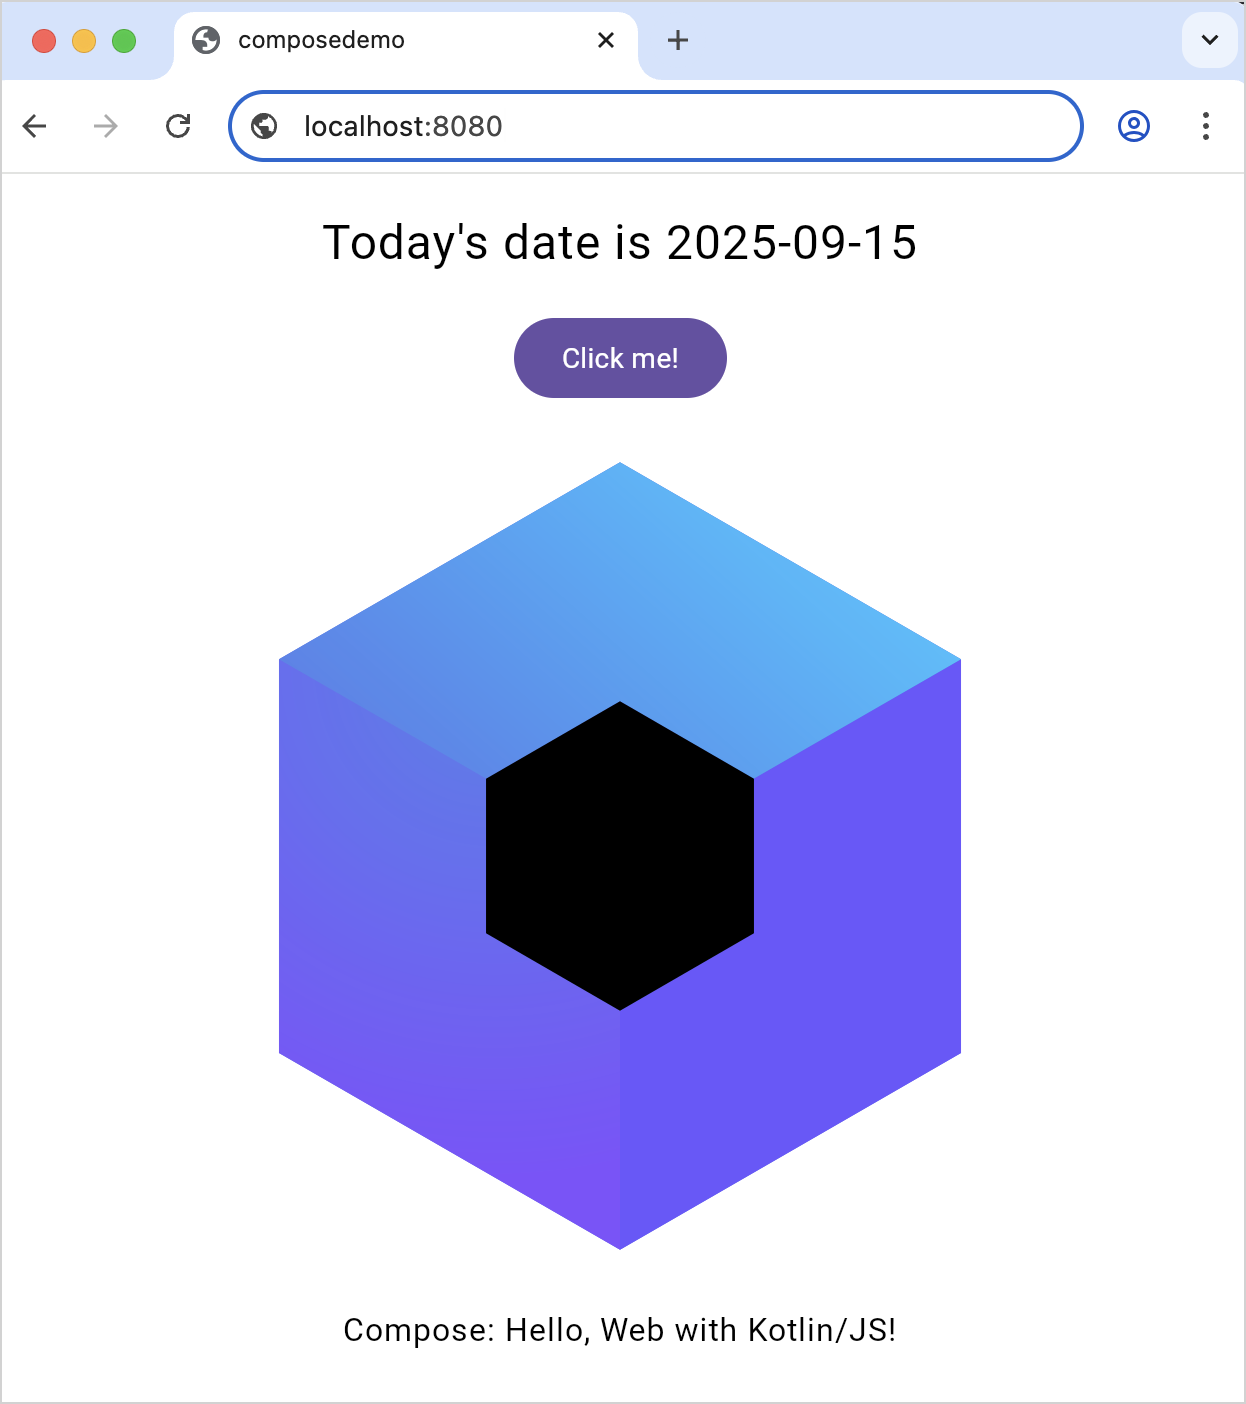
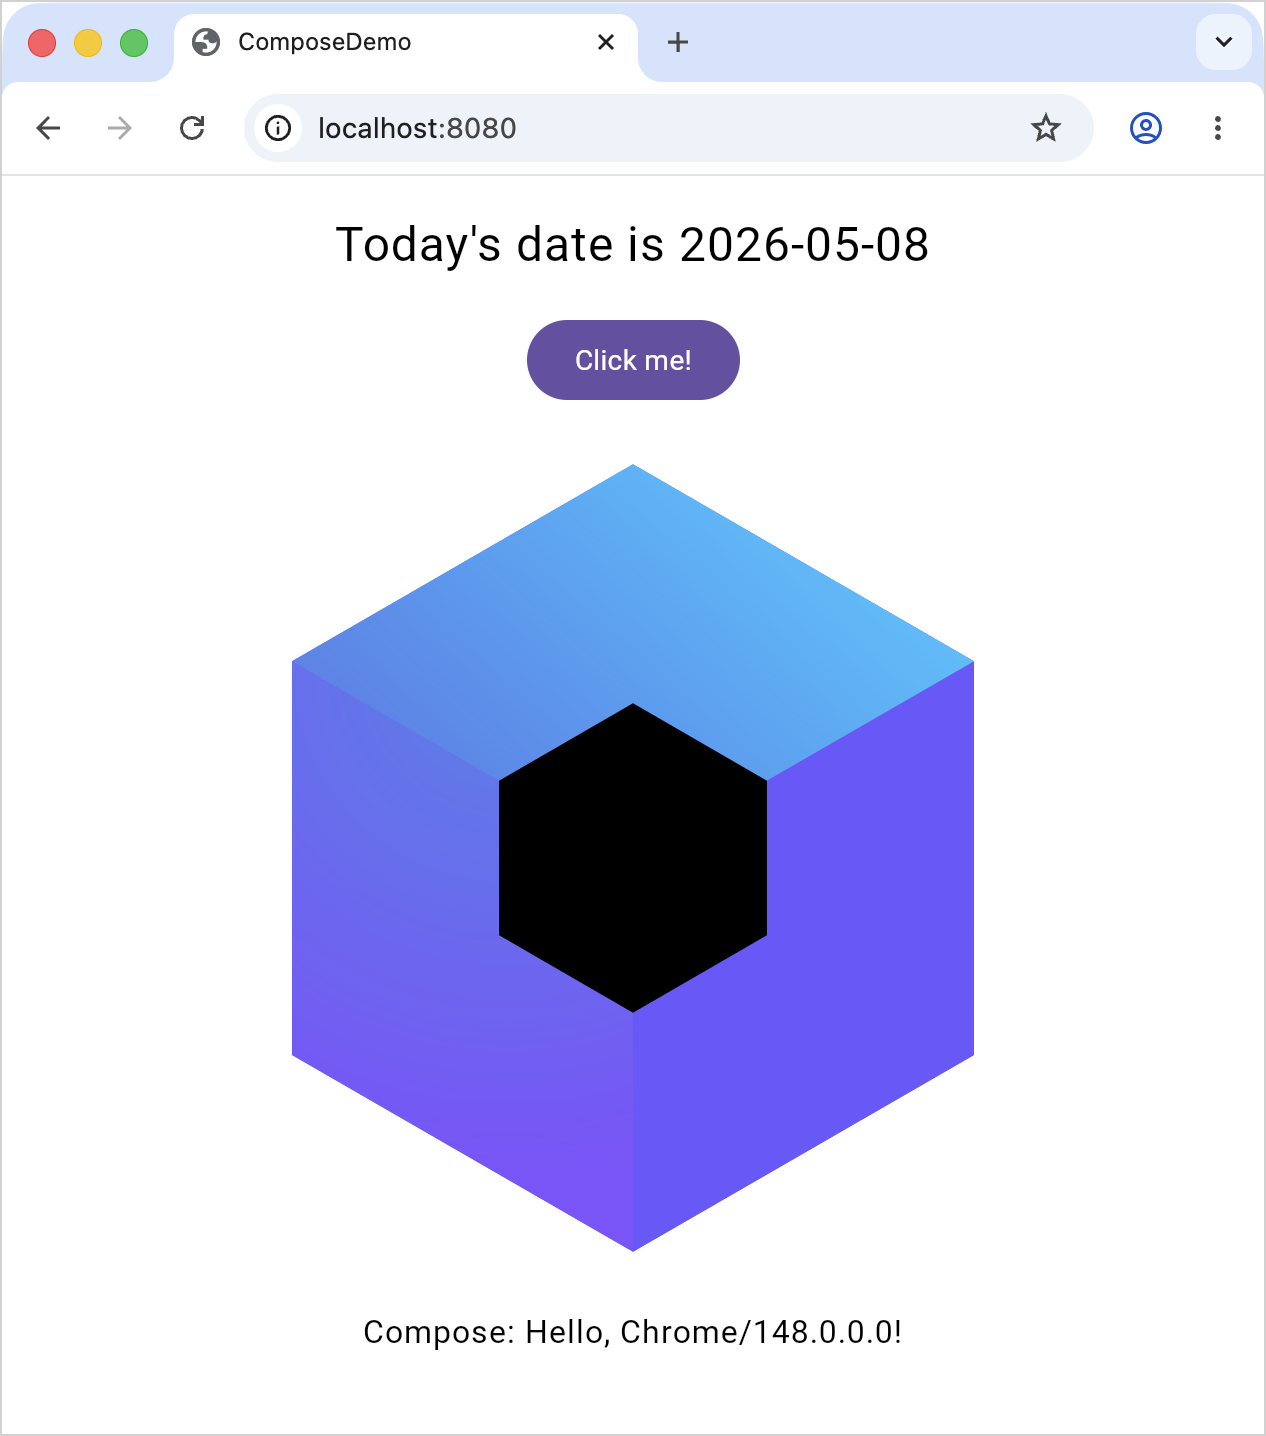
update: adding kotlinx-datetime

diff --git a/topics/compose-onboard/compose-multiplatform-explore-composables.md b/topics/compose-onboard/compose-multiplatform-explore-composables.md
@@ -24,53 +24,57 @@ In the `shared/src/commonMain/kotlin/App.kt` file, take a look at the `App()` fu
 
 <include from="compose-multiplatform-create-first-app.md" element-id="common-app-composable" />
 
-The `App()` function is a regular Kotlin function annotated with `@Composable`. These kinds of functions are referred to
-as _composable
-functions_ or just _composables_. They are the building blocks of a UI based on Compose Multiplatform.
+The `App()` function is a regular Kotlin function annotated with `@Composable`.
+Such functions are referred to as _composable functions_ or simply _composables_.
+They are the building blocks of a UI based on Jetpack Compose or Compose Multiplatform.
 
-A composable function has the following general structure:
+This `App()` function is used as the base of the UI architecture for the app and has the following structure:
 
-* The `MaterialTheme` sets the look of the application. The default settings can be customized. For example, you can
+* The `MaterialTheme()` sets the look of the application. The default settings can be customized. For example, you can
   choose colors, shapes, and typography.
-* The `Column` composable controls the layout of the application. Here, it displays a `Button` above
-  the `AnimatedVisibility` composable.
-* The `Button` contains the `Text` composable, which renders some text.
-* The `AnimatedVisibility` shows and hides the `Image` using an animation.
-* The `painterResource` loads a vector icon stored as an XML file.
+* The `Column()` composable controls the layout of the application. Here, it displays a `Button` above
+  the `AnimatedVisibility()` composable.
+* The `Button()` contains the `Text` composable, which renders some text on top of the button.
+* The `AnimatedVisibility()` call is set up to show and hide the `Image` using an animation when the button is pressed.
+* The `painterResource()` loads a vector image stored as an XML file.
 
-The `horizontalAlignment` parameter of the `Column` centers its content. But for this to have any effect, the column
-should take up the full width of its container. This is achieved using the `modifier` parameter.
+The `horizontalAlignment` parameter of the `Column()` function centers the column's content.
+For this to come into effect, the column should take up the full width of its container.
+This is achieved using the `modifier` parameter.
 
 Modifiers are a key component of Jetpack Compose and Compose Multiplatform.
-This is the primary mechanism you use to adjust the appearance or behavior of composables in the UI.
+They provide the primary mechanism to adjust the appearance or behavior of composables in the UI.
 Modifiers are created using methods of the `Modifier` type. When you chain these
 methods, each call can change the `Modifier` returned from the previous call, making the order significant.
 See the [Compose Multiplatform introduction to modifiers](https://kotlinlang.org/docs/multiplatform/compose-layout-modifiers.html#built-in-modifiers)
 and the extensive [Jetpack Compose modifier documentation](https://developer.android.com/jetpack/compose/modifiers) for more details.
 
-### Managing the state
+## Managing the state
 
-The final aspect of the sample composable is how the state is managed. The `showContent` property in the `App`
-composable is built using the `mutableStateOf()` function, which means it's a state object that can be observed:
+There is a persistent quality to the loaded image: it should consistently be either visible or hidden across recompositions
+unless the button is clicked.
+The `showContent` property in the `App()` composable is built using the `mutableStateOf()` function,
+which means it's a state object that can be observed:
 
 ```kotlin
 var showContent by remember { mutableStateOf(false) }
 ```
 
-The state object is wrapped in a call to the `remember()` function, meaning that it's built once and then
-retained by the framework. By executing this, you create a property whose value is a state object containing a boolean.
+The state object is wrapped in a `remember()` call, meaning that it's built once and then
+retained by the framework. This way, the `showContent` property has a value that is a state object containing a boolean.
 The framework caches this state object, allowing composables to observe it.
 
 When the value of the state changes, any composables that observe it are re-invoked. This allows any of the widgets they
 produce to be redrawn. This is called a _recomposition_.
 
-In your application, the only place where the state is changed is in the click event of the button. The `onClick` event
-handler flips the value of the `showContent` property. As a result, the image gets shown or hidden along with a `Greeting().greet()` call
-because the parent `AnimatedVisibility` composable observes `showContent`.
+The only place where the state is changed is in the `onClick` parameter of the `Button()` call.
+The event handler flips the value of the `showContent` property.
+As a result, the image gets shown or hidden along with a `Greeting().greet()` call
+because the parent `AnimatedVisibility()` composable observes `showContent`.
 
 ## Launching UI on different platforms
 
-The `App()` function execution is different for each platform. On Android, it's managed by an activity; on iOS, by a view 
+The `App()` function is executed differently on each platform. On Android, it's managed by an activity; on iOS, by a view 
 controller; on the desktop, by a window; and on the web, by a container. Let's examine each of them.
 
 ### On Android
@@ -91,7 +95,7 @@ class MainActivity : ComponentActivity() {
 ```
 
 This is an [Android activity](https://developer.android.com/guide/components/activities/intro-activities)
-called `MainActivity` that invokes the `App` composable.
+called `MainActivity` that invokes the `App()` composable declared in common code.
 
 ### On iOS
 
@@ -102,7 +106,7 @@ fun MainViewController() = ComposeUIViewController { App() }
 ```
 
 This is a [view controller](https://developer.apple.com/documentation/uikit/view_controllers) that performs the same
-role as an activity on Android. Notice that both the iOS and Android types simply invoke the `App` composable from common code.
+role as an activity on Android. Notice that both the iOS and Android types simply invoke the `App()` composable from common code.
 
 ### On desktop
 
@@ -120,12 +124,14 @@ fun main() = application {
 ```
 
 * Here, the `application()` function launches a new desktop application.
-* This function takes a lambda, which initializes the UI. Typically, you create a `Window` and specify properties and
-  instructions that dictate how the program should react when the window is closed (`onCloseRequest`).
-  In this case, the whole application shuts down.
-* Inside this window, you can place your content. As with Android and iOS, the only content is the UI provided by the `App()` function.
+  This function takes a lambda, which initializes the UI.
+* Typically, within `application()` you create a `Window` and specify its properties
+  as well as instructions for the program that should be executed when the window is closed (`onCloseRequest`).
+  In the default project, the whole application shuts down (`::exitApplication`).
+* Inside the window, you can place your content.
+  As with Android and iOS, the only content is the UI layout provided by the `App()` composable.
 
-In this example, the `App()` function doesn't declare any parameters. In a larger application, you typically pass parameters to
+In this example, the `App()` function doesn't take any parameters. In a larger application, you typically pass parameters to
 platform-specific dependencies. These dependencies could be written manually or passed using a dependency injection library.
 
 ### On web

diff --git a/topics/compose-onboard/compose-multiplatform-modify-project.md b/topics/compose-onboard/compose-multiplatform-modify-project.md
@@ -31,9 +31,18 @@ you can rely on the [kotlinx-datetime](https://github.com/Kotlin/kotlinx-datetim
 
 To use the `kotlinx-datetime` library:
 
-1. Open the `shared/build.gradle.kts` file and add the main `kotlinx-datetime` dependency to the section that configures
-   the common code source set.
-   For simplicity, you can include the version number directly instead of adding it to the version catalog.
+1. Open the `gradle/libs.versions.toml` file and add the `kotlinx-datetime` dependency to the version catalog:
+
+    ```text
+    [versions]
+    kotlinx-datetime = "0.8.0"
+    
+    [libraries]
+    kotlinx-datetime = { module = "org.jetbrains.kotlinx:kotlinx-datetime", version.ref = "kotlinx-datetime" }
+    ```
+
+2. Open the `shared/build.gradle.kts` file and add a reference to that library entry
+   to the section that configures the common code source set:
       
     ```kotlin
     kotlin {
@@ -42,13 +51,13 @@ To use the `kotlinx-datetime` library:
             // ...
             commonMain.dependencies {
                 // ...
-                implementation("org.jetbrains.kotlinx:kotlinx-datetime:%dateTimeVersion%")
+                implementation(libs.kotlinx.datetime)
             }
         }
     }
     
     ```
-2. For the web target, timezone support requires the `js-joda` library.
+3. For the web target, timezone support requires the `js-joda` library.
    Add a reference to the `js-joda` npm package to the `webApp/build.gradle.kts file`:
 
     ```kotlin
@@ -58,25 +67,25 @@ To use the `kotlinx-datetime` library:
             // ...
             commonMain.dependencies {
                 // ...
-                implementation(npm("@js-joda/timezone", "2.22.0"))
+                implementation(npm("@js-joda/timezone", "2.25.1"))
             }
         }
     }
     
     ```
 
-    Adding the dependency to the `commonMain` source set makes the library available both to the `wasmJs` and `js` targets.
+    Adding the dependency to the `webMain` source set makes the library available both to the `wasmJs` and `js` targets.
 
-3. Once the dependency is added, accept the IDE suggestion to sync the Gradle configuration
+4. Once the dependency is added, accept the IDE suggestion to sync the Gradle configuration
    or press double **Shift** and execute the **Sync Project with Gradle Files** command.
 
-4. In the **Terminal** tool window, run the following command to ensure that the `yarn.lock` file is updated with the latest dependency versions:
+5. In the **Terminal** tool window, run the following command to ensure that the `yarn.lock` file is updated with the latest dependency versions:
 
     ```shell
     ./gradlew kotlinUpgradeYarnLock kotlinWasmUpgradeYarnLock
     ```
  
-5. In the `webApp/src/webMain/kotlin/.../main.kt` file, use the `@JsModule` annotation to import the `js-joda` npm package: 
+6. In the `webApp/src/webMain/kotlin/.../main.kt` file, use the `@JsModule` annotation to import the `js-joda` npm package: 
 
     ```kotlin
     import androidx.compose.ui.ExperimentalComposeUiApi
@@ -99,6 +108,11 @@ To use the `kotlinx-datetime` library:
     ```
    {initial-collapse-state="collapsed" collapsible="true" collapsed-title='@JsModule("@js-joda/timezone")'}
 
+> When commiting your project to version control, include the `yarn.lock` files generated in the `kotlin-js-store` directory.
+> This helps ensure that the same versions of JavaScript dependencies are used wherever the project is built.
+> 
+{style="note"}
+
 ## Enhance the user interface
 
 1. Open the `shared/src/commonMain/kotlin/App.kt` file and after the `App()` composable add the following function
@@ -113,7 +127,9 @@ To use the `kotlinx-datetime` library:
        return now.toLocalDateTime(zone).format()
    }
    ```
-2. Add the imports that are suggested by the IDE. Make sure to import the `Clock` class from `kotlin.time`, **not** `kotlinx.datetime`. 
+2. Add the imports that are suggested by the IDE.
+   
+   Make sure to import the `Clock` class from `kotlin.time`, **not** `kotlinx.datetime`. 
 3. In the same file, modify the `App()` composable to include the `Text()` composable that invokes this function and displays the result:
    
     ```kotlin
@@ -163,10 +179,10 @@ using the same run configurations for Android, iOS, desktop, and web:
         <img src="first-compose-project-on-android-ios-2.png" alt="First Compose Multiplatform app on Android and iOS" width="500"/>
     </tab>
     <tab id="desktop-app" title="Desktop">
-        <img src="first-compose-project-on-desktop-2.png" alt="First Compose Multiplatform app on desktop" width="400"/>
+        <img src="first-compose-project-on-desktop-2.png" alt="First Compose Multiplatform app on desktop" width="600"/>
     </tab>
     <tab id="web-app" title="Web">
-        <img src="first-compose-project-on-web-2.png" alt="First Compose Multiplatform app on web" width="400"/>
+        <img src="first-compose-project-on-web-2.png" alt="First Compose Multiplatform app on web" width="600"/>
     </tab>
 </tabs>
 